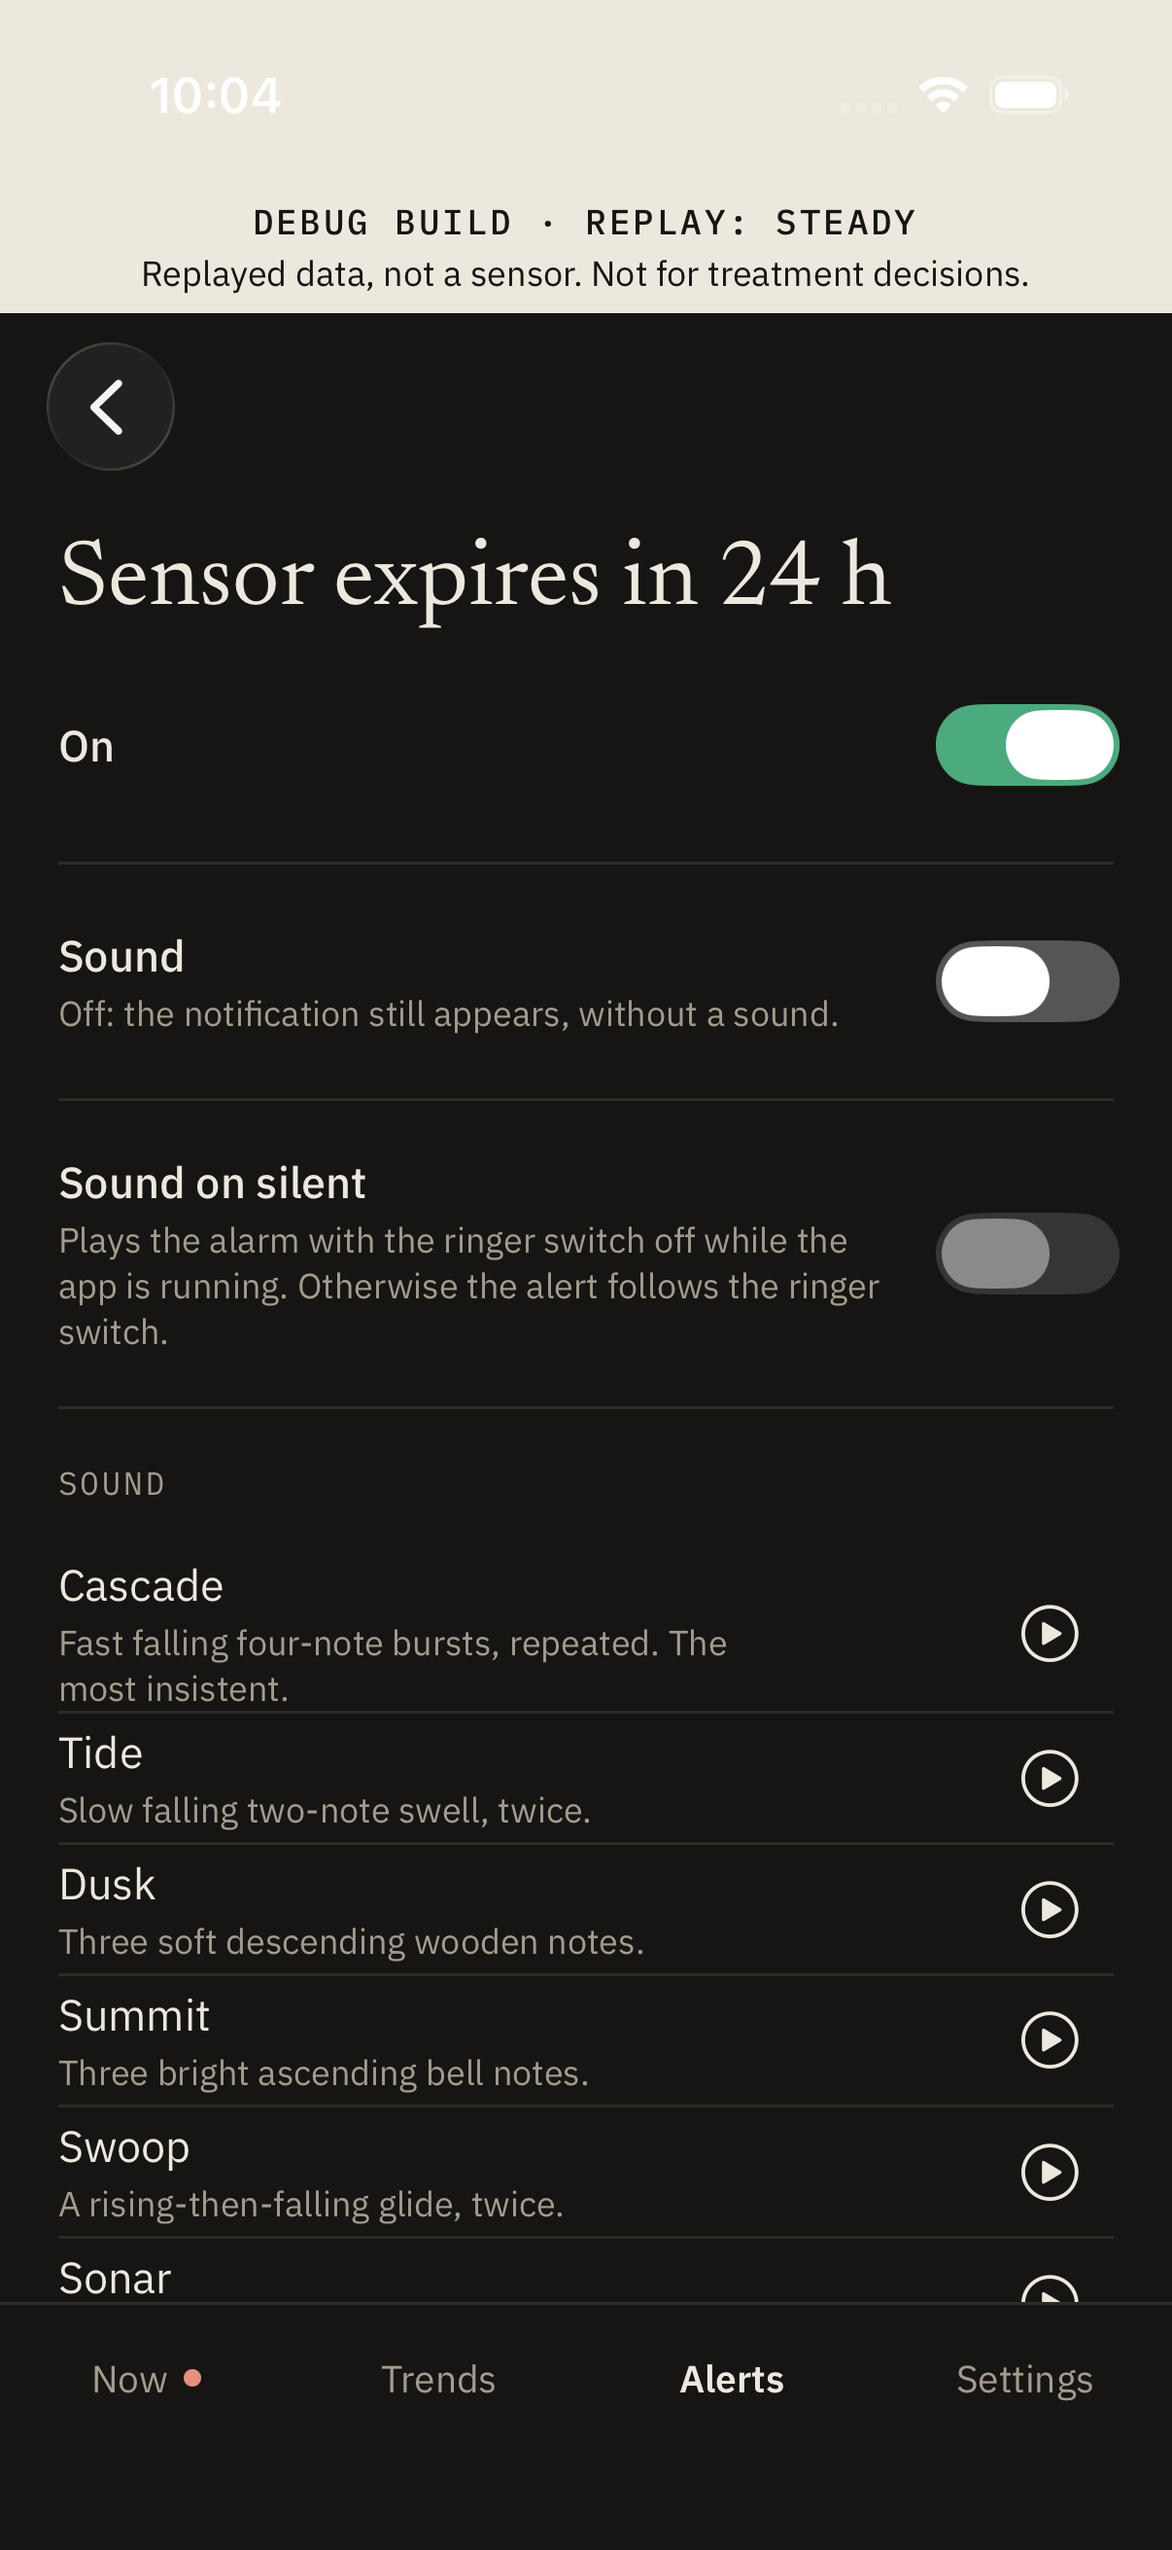
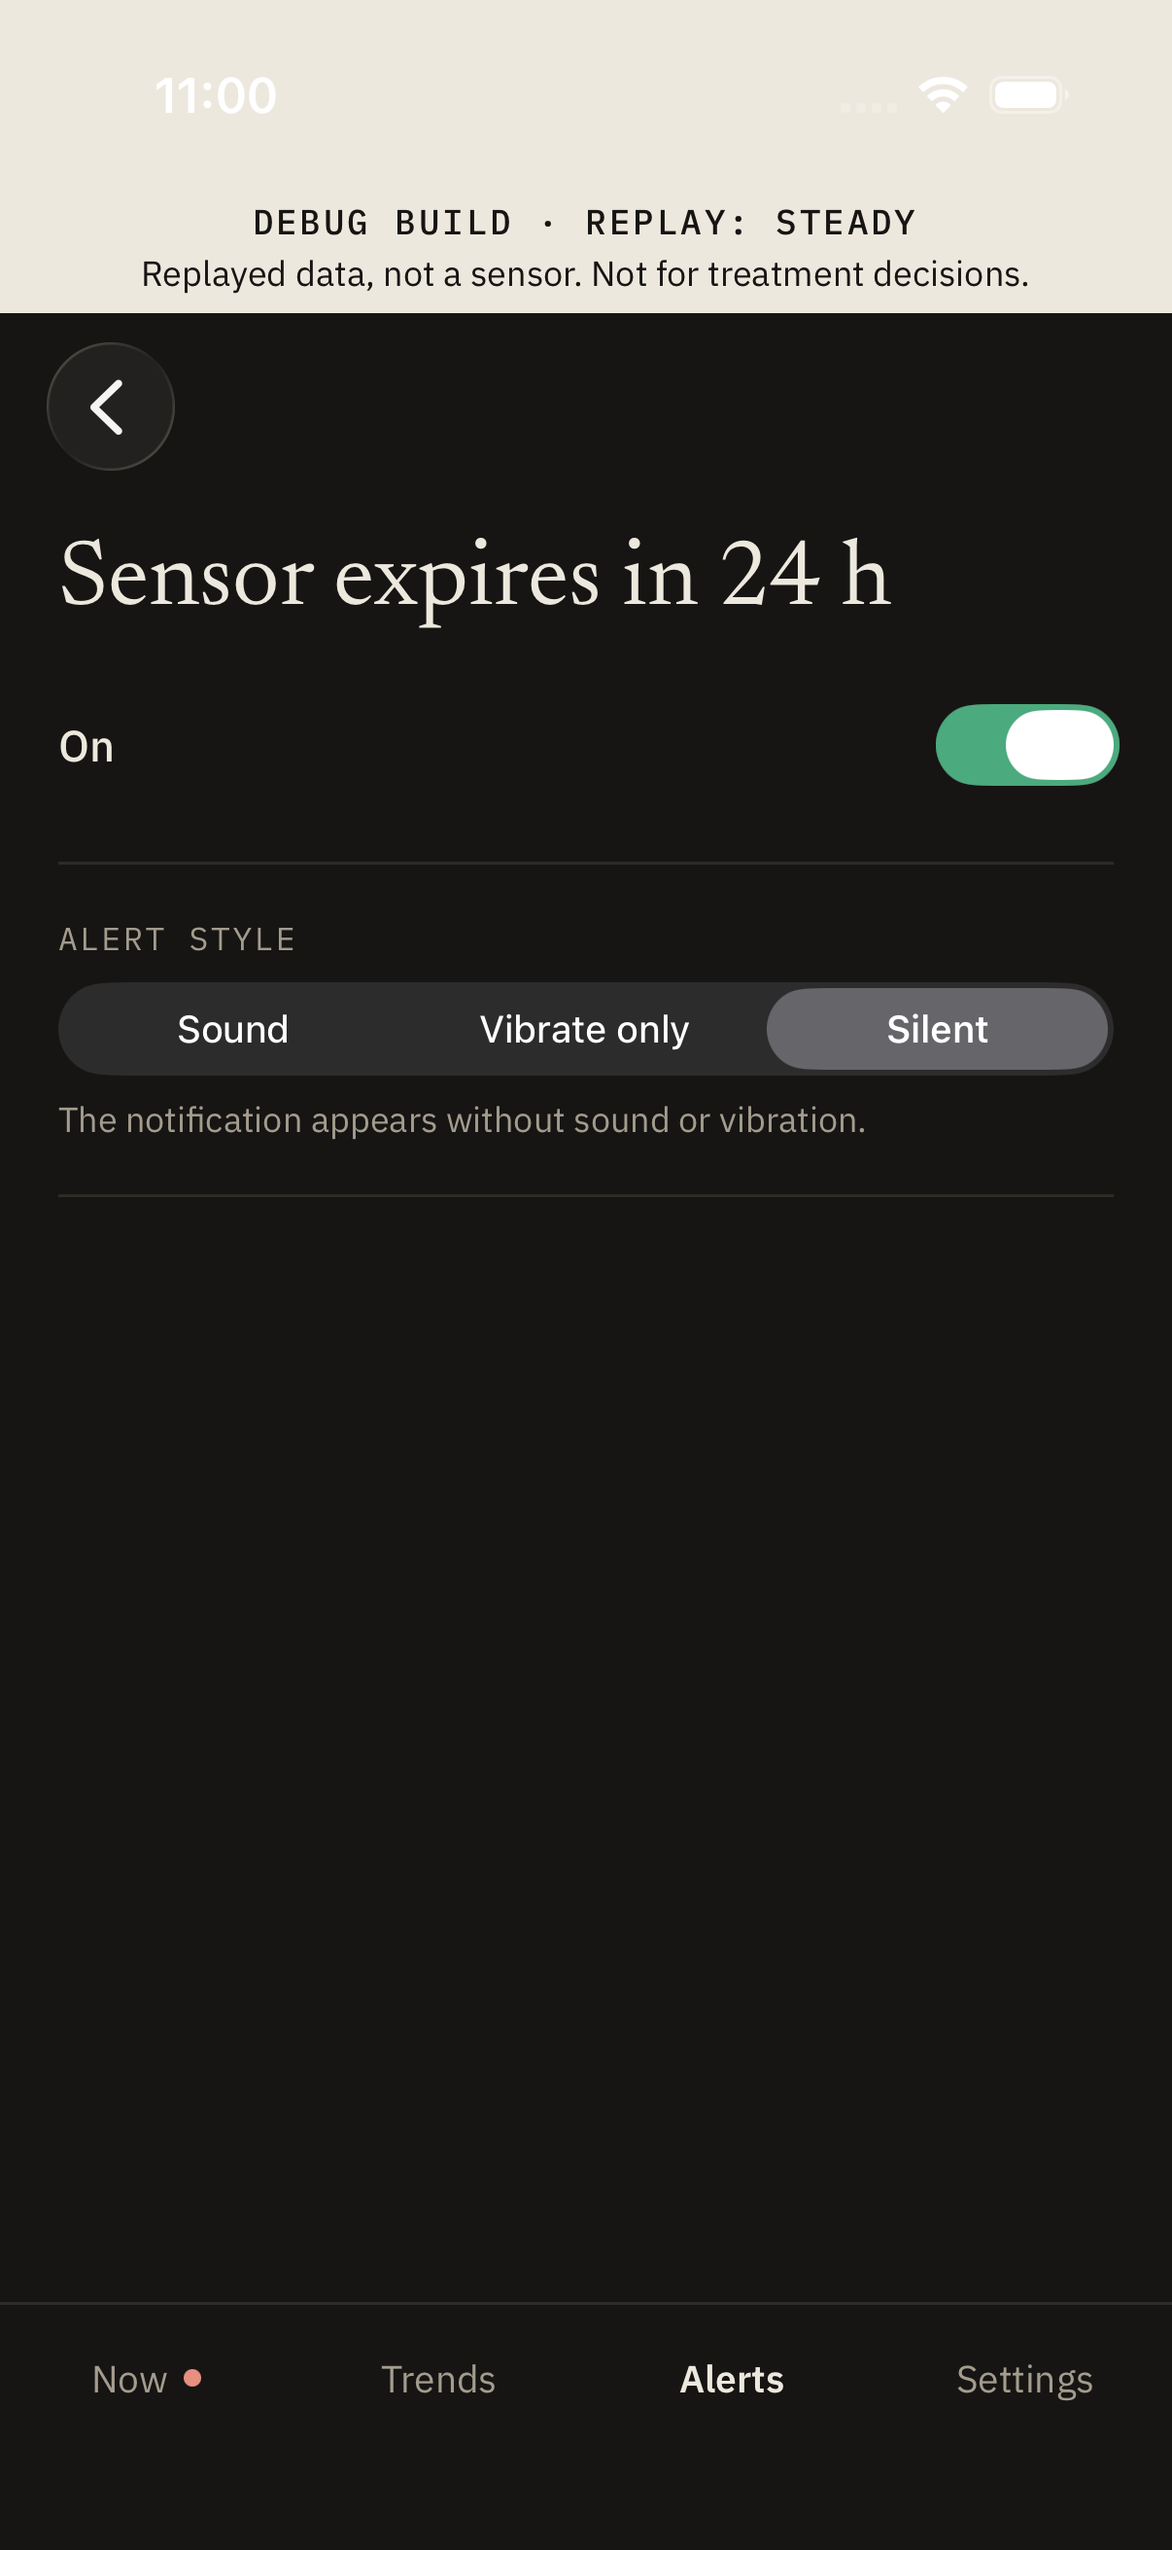
D53 wired: alert style on AlertEngine's AlertStyle (style, setStyle, allowedStyles); urgent low shows no choice; NoAlertHaptics under -silenceAlertAudio; Alerts screenshots regenerated

diff --git a/App/Sources/ViewState/AlertsViewState.swift b/App/Sources/ViewState/AlertsViewState.swift
@@ -103,9 +103,10 @@ struct AlertRow: Equatable, Identifiable, Sendable {
     var repeatMinutes: Int?
     /// D53: how the alert gets attention — its sound, a vibration without sound, or (one-off
     /// announcements) a silent notification. Urgent low is always `.sound` (S7).
-    var style: AlertStyleChoice = .sound
-    /// The styles the person may choose; empty for urgent low, which has no style control (S7).
-    var allowedStyles: [AlertStyleChoice] = []
+    var style: AlertStyle = .sound
+    /// AlertEngine's `allowedStyles(for:)`: `[.sound]` for urgent low (S7: no style control),
+    /// sound / vibrate only for condition alerts, all three for one-off announcements.
+    var allowedStyles: [AlertStyle] = [.sound]
 
     var id: AlertKind { kind }
 
@@ -114,17 +115,8 @@ struct AlertRow: Equatable, Identifiable, Sendable {
     var effectiveSoundOnSilent: Bool { kind.soundOnSilentIsFixed ? true : soundOnSilent }
     /// The sound picker and "Sound on silent" apply only when the alert plays its sound.
     var showsSoundSettings: Bool { style == .sound }
-}
-
-/// D53 alert style, the screen's side. Mirrors AlertEngine's `AlertStyle` (WS4: `.sound`,
-/// `.vibrateOnly`, `.silent` for one-off events); `AlertStyleAdapter` is the only place that talks to
-/// the engine about it.
-enum AlertStyleChoice: String, CaseIterable, Identifiable, Sendable {
-    case sound
-    case vibrateOnly
-    case silent
-
-    var id: String { rawValue }
+    /// A style control only where there is a choice (never for urgent low, S7).
+    var hasStyleChoice: Bool { allowedStyles.count > 1 }
 }
 
 struct AlertSound: Equatable, Identifiable, Sendable {
@@ -221,7 +213,7 @@ enum AlertsText {
     static let expiryRemindersNote = "Reminders before the sensor's session ends, when the grace period starts, and when it has expired. They arrive even while the app is in the background."
 
     /// D53: the alert style choice.
-    static func styleTitle(_ style: AlertStyleChoice) -> String {
+    static func styleTitle(_ style: AlertStyle) -> String {
         switch style {
         case .sound: return "Sound"
         case .vibrateOnly: return "Vibrate only"
@@ -230,7 +222,7 @@ enum AlertsText {
     }
 
     /// One line under the choice; nil for Sound (the sound settings follow).
-    static func styleNote(_ style: AlertStyleChoice) -> String? {
+    static func styleNote(_ style: AlertStyle) -> String? {
         switch style {
         case .sound: return nil
         case .vibrateOnly: return "Vibrates without sound. Easy to miss while asleep."

diff --git a/App/Sources/Model/AlertsMapping.swift b/App/Sources/Model/AlertsMapping.swift
@@ -25,34 +25,27 @@ enum AlertEdit: Equatable, Sendable {
     /// Urgent low: repeat interval, minutes.
     case repeatInterval(AlertKind, Int)
     /// D53: Sound / Vibrate only / Silent (one-off events). Refused for urgent low (S7).
-    case style(AlertKind, AlertStyleChoice)
+    case style(AlertKind, AlertStyle)
     /// D53 convenience: every alert that sounds, except urgent low, to vibrate only. Silent
     /// announcements stay silent; urgent low is never touched (S7).
     case vibrateAllExceptUrgentLow
     case quietHours(QuietHours)
 }
 
-/// D53: the alert style through AlertEngine — the only code that reads or writes it. Until WS4's
-/// `AlertStyle` (`style(_:)`, `setStyle(_:for:)`, `allowedStyles(for:)`) lands it reads the D43
-/// `playsSound` (Silent) and cannot store Vibrate only; wiring replaces these three functions.
+/// D53: the alert style through AlertEngine (`AlertSettings.style(_:)`, `setStyle(_:for:)`,
+/// `allowedStyles(for:)`) — the only code that reads or writes it. The engine refuses anything but
+/// `.sound` for urgent low (S7) and `.silent` for a condition alert.
 enum AlertStyleAdapter {
-    static func style(_ kind: AlertKind, in settings: AlertSettings) -> AlertStyleChoice {
-        kind.isEventAlert && !settings.playsSound(kind) ? .silent : .sound
+    static func style(_ kind: AlertKind, in settings: AlertSettings) -> AlertStyle {
+        settings.style(kind)
     }
 
-    /// Empty for urgent low (S7: always sound, no control).
-    static func allowedStyles(_ kind: AlertKind) -> [AlertStyleChoice] {
-        guard kind != .urgentLow else { return [] }
-        return kind.isEventAlert ? [.sound, .vibrateOnly, .silent] : [.sound, .vibrateOnly]
+    static func allowedStyles(_ kind: AlertKind) -> [AlertStyle] {
+        AlertSettings.allowedStyles(for: kind)
     }
 
-    static func setStyle(_ style: AlertStyleChoice, for kind: AlertKind, in settings: inout AlertSettings) {
-        guard allowedStyles(kind).contains(style) else { return }
-        switch style {
-        case .sound: settings.setPlaysSound(true, for: kind)
-        case .silent: settings.setPlaysSound(false, for: kind)
-        case .vibrateOnly: break // stored once WS4's setStyle lands
-        }
+    static func setStyle(_ style: AlertStyle, for kind: AlertKind, in settings: inout AlertSettings) {
+        settings.setStyle(style, for: kind)
     }
 }
 

diff --git a/App/Sources/Composition/AlertPorts.swift b/App/Sources/Composition/AlertPorts.swift
@@ -17,6 +17,9 @@ struct AlertPorts {
     /// Calendar and locale for quiet hours and notification text (the phone's by default).
     let configuration: AlertEngineConfiguration
     let diagnostics: any DiagnosticLog
+    /// The in-app vibration for vibrate-only alerts (D53); nil uses the system vibration
+    /// (`SystemAlertHaptics`). DEBUG `-silenceAlertAudio`: `NoAlertHaptics`.
+    var haptics: (any AlertHaptics)? = nil
 
     /// The production service: restores the persisted engine snapshot and persists every new one
     /// (acknowledgements and snoozes survive a relaunch). Call `start()` on it.
@@ -24,7 +27,7 @@ struct AlertPorts {
                                onSnapshot: @escaping @MainActor (AlertEngineSnapshot) -> Void) -> AlertService {
         AlertService(
             settings: settings, restoring: snapshot, configuration: configuration, clock: clock,
-            notificationCenter: notificationCenter, audio: audio, systemAlarms: alarms, diagnostics: diagnostics,
+            notificationCenter: notificationCenter, audio: audio, systemAlarms: alarms, haptics: haptics, diagnostics: diagnostics,
             onSnapshot: onSnapshot
         )
     }
@@ -37,7 +40,7 @@ struct AlertPorts {
         replayConfiguration.acceptsReplayReadings = true
         return AlertService(
             settings: settings, restoring: nil, configuration: replayConfiguration, clock: clock,
-            notificationCenter: notificationCenter, audio: audio, systemAlarms: alarms, diagnostics: diagnostics
+            notificationCenter: notificationCenter, audio: audio, systemAlarms: alarms, haptics: haptics, diagnostics: diagnostics
         )
     }
     #endif

diff --git a/App/Sources/Screens/Alerts/AlertsScreen.swift b/App/Sources/Screens/Alerts/AlertsScreen.swift
@@ -90,7 +90,7 @@ struct AlertsContent: View {
     /// be changed back on its page. Offered while any alert would change.
     @ViewBuilder
     private var vibrateAll: some View {
-        if state.rows.contains(where: { $0.allowedStyles.contains(.vibrateOnly) && $0.style == .sound }) {
+        if state.rows.contains(where: { $0.kind != .urgentLow && $0.allowedStyles.contains(.vibrateOnly) && $0.style == .sound }) {
             Button(AlertsText.vibrateAllButton) { confirmingVibrateAll = true }
                 .buttonStyle(LinkButtonStyle())
                 .frame(minHeight: Layout.minTarget)
@@ -286,7 +286,7 @@ struct AlertDetailView: View {
     /// D53: Sound / Vibrate only (/ Silent for one-off events). Urgent low has none: a note (S7).
     @ViewBuilder
     private var styleSection: some View {
-        if row.allowedStyles.isEmpty {
+        if !row.hasStyleChoice {
             Text(verbatim: AlertsText.urgentLowStyleNote)
                 .font(Typography.body(size: 13))
                 .fixedSize(horizontal: false, vertical: true)
@@ -295,7 +295,7 @@ struct AlertDetailView: View {
             VStack(alignment: .leading, spacing: 8) {
                 SectionLabel("ALERT STYLE")
                 Picker(selection: Binding(get: { row.style }, set: { actions.edit(.style(row.kind, $0)) })) {
-                    ForEach(row.allowedStyles) { style in
+                    ForEach(row.allowedStyles, id: \.self) { style in
                         Text(verbatim: AlertsText.styleTitle(style)).tag(style)
                     }
                 } label: {

diff --git a/AppTests/AlertsViewTests.swift b/AppTests/AlertsViewTests.swift
@@ -148,7 +148,8 @@ final class AlertsViewTests: XCTestCase {
             XCTAssertEqual(state.row(kind)?.allowedStyles, [.sound, .vibrateOnly, .silent], "\(kind): one-off events can be silent")
         }
         XCTAssertEqual(state.row(.sensorExpired)?.allowedStyles, [.sound, .vibrateOnly], "expired is never silent")
-        XCTAssertEqual(state.row(.urgentLow)?.allowedStyles, [], "S7: urgent low has no style control")
+        XCTAssertEqual(state.row(.urgentLow)?.allowedStyles, [.sound], "S7: urgent low has no style choice")
+        XCTAssertEqual(state.row(.urgentLow)?.hasStyleChoice, false)
         XCTAssertEqual(state.row(.urgentLow)?.style, .sound)
         for kind in AlertKind.allCases where !kind.isEventAlert && kind != .urgentLow {
             XCTAssertEqual(state.row(kind)?.allowedStyles, [.sound, .vibrateOnly], "\(kind)")
@@ -163,7 +164,7 @@ final class AlertsViewTests: XCTestCase {
         XCTAssertFalse(s.playsSound(.sensorExpiringIn12Hours))
         XCTAssertFalse(s.isEnabled(.sensorExpiringIn12Hours))
         // S7: a style edit for urgent low changes nothing; Silent is refused for condition alerts.
-        for style in AlertStyleChoice.allCases {
+        for style in AlertStyle.allCases {
             XCTAssertEqual(AlertsMapping.apply(.style(.urgentLow, style), to: .defaults), .defaults, "\(style)")
         }
         XCTAssertEqual(AlertsMapping.apply(.style(.sensorExpired, .silent), to: .defaults), .defaults)

diff --git a/App/Sources/Composition/AppEnvironment.swift b/App/Sources/Composition/AppEnvironment.swift
@@ -119,7 +119,7 @@ final class AppEnvironment {
 
     /// The alert service's delivery ports: UNUserNotificationCenter, the `.playback` audio player and
     /// AlarmKit with the app's Stop intent (docs/alerts.md §9). DEBUG: `-silenceAlertAudio` swaps in
-    /// silent versions (SilentAlertOutputs.swift) — same delivery, nothing audible.
+    /// silent versions (SilentAlertOutputs.swift) and no vibration — same delivery, nothing audible.
     static func makeAlertPorts(arguments: [String], diagnostics: any DiagnosticLog) -> AlertPorts {
         let notifications: any AlertNotificationCenter = UserNotificationCenterAdapter()
         let audio: any AlertAudioPlaying = PlaybackAlertAudioPlayer()
@@ -132,7 +132,8 @@ final class AppEnvironment {
             diagnostics.record(DiagnosticEvent(date: Date(), category: .alert, message: "alert audio silenced (\(SilentAlertAudio.launchArgument), DEBUG)"))
             return AlertPorts(
                 notificationCenter: SilentNotificationCenter(), audio: SilentAlertAudioPlayer(volumeSource: audio),
-                alarms: SilentSystemAlarms(real: alarms), configuration: AlertEngineConfiguration(), diagnostics: diagnostics
+                alarms: SilentSystemAlarms(real: alarms), configuration: AlertEngineConfiguration(), diagnostics: diagnostics,
+                haptics: NoAlertHaptics() // D53: no vibration either
             )
         }
         #endif

diff --git a/AppTests/AlertStyleTests.swift b/AppTests/AlertStyleTests.swift
@@ -22,10 +22,11 @@ final class AlertStyleTests: XCTestCase {
     /// S7: urgent low has no style control and no style edit changes it.
     func test_urgentLowHasNoStyleControl() {
         let row = AlertsMapping.row(.urgentLow, .defaults)
-        XCTAssertEqual(row.allowedStyles, [])
+        XCTAssertEqual(row.allowedStyles, [.sound])
+        XCTAssertFalse(row.hasStyleChoice)
         XCTAssertEqual(row.style, .sound)
         XCTAssertTrue(row.showsSoundSettings)
-        for style in AlertStyleChoice.allCases {
+        for style in AlertStyle.allCases {
             XCTAssertEqual(AlertsMapping.apply(.style(.urgentLow, style), to: .defaults), .defaults, "\(style)")
         }
         XCTAssertEqual(AlertsText.urgentLowStyleNote, "Urgent low always sounds (it can't be set to vibrate).")

diff --git a/AppTests/SilentAlertAudioTests.swift b/AppTests/SilentAlertAudioTests.swift
@@ -36,7 +36,7 @@ final class SilentAlertAudioTests: XCTestCase {
     func test_silentNotificationMapsTheActiveLevel() {
         let notice = AlertNotice(
             kind: .sensorExpiringIn24Hours, title: "Sensor expires in 24 h", body: "At 8:15 PM tomorrow", sound: .doorbell,
-            soundsOnSilent: false, isSilenced: false, snoozeMinutes: nil, fireDate: nil, playsSound: false
+            soundsOnSilent: false, isSilenced: false, snoozeMinutes: nil, fireDate: nil, style: .silent
         )
         let decision = DeliveryPolicy.decide(for: notice, criticalAlertsEnabled: false, systemAlarmsAvailable: false, timing: .now)
         XCTAssertEqual(decision.interruption, .active)

diff --git a/docs/app-wiring.md b/docs/app-wiring.md
@@ -164,14 +164,24 @@ Tests: `TrendsMappingTests`, `AppModelWiringTests.test_trendsFromTheStore`.
 Rows are AlertEngine's own `AlertKind`s (the app has no alert enum; D42 added "History isn't being
 saved", `storageFailing`, sound-on-silent off by default). D43: the five sensor expiry reminders
 (`AlertKind.sensorExpiryReminders`: 24 h, 12 h, 2 h, grace start, expired) are their own section,
-"Sensor expiry reminders", in the order they come due. Each row has one switch (on/off) and says
-"no sound" or the sound's name; the one-off announcements' Sound switch (`AlertSettings.playsSound` /
-`setPlaysSound`, `AlertEdit.playsSound`; 24 h off by default) is on the reminder's page, above "Sound
-on silent", which is disabled while Sound is off (review m8: two unlabelled switches on a row invited
-turning a reminder off instead of muting it). "Sensor expired" always sounds, and urgent low never
-gets a Sound switch (S7: its row has no `playsSound`, and the engine refuses the edit). Screenshots: `alerts-expiry-reminders-*.png`,
-`alerts-expiry-24h-*.png` (taken by `test_alertsShowTheSensorExpiryReminders` with
-`SENSOR_WRITE_SCREENSHOTS=1`). Rows are built from `alertSettings` by
+"Sensor expiry reminders", in the order they come due. Each row has one switch (on/off; review m8:
+two unlabelled switches on a row invited turning a reminder off instead of muting it).
+
+**Alert style (D53).** Each alert's page has an "Alert style" choice from AlertEngine's
+`allowedStyles(for:)`: Sound / Vibrate only for condition alerts, plus Silent for the one-off
+announcements (it replaces D43's Sound switch; the 24 h reminder is Silent by default); "Sensor
+expired" is a condition alert, so never Silent. Urgent low (`[.sound]`, S7) shows no choice, only
+"Urgent low always sounds (it can't be set to vibrate)." The sound picker and "Sound on silent" show
+only for Sound; Vibrate only says "Vibrates without sound. Easy to miss while asleep." Edits are
+`AlertEdit.style` → `setStyle(_:for:)` (the engine refuses what isn't allowed), all through
+`AlertStyleAdapter`. The list subtitle reads "vibrate only", "no sound", or the sound's name and
+"sounds on silent". "Set all to vibrate except urgent low" (top of the screen, confirmed;
+`AlertEdit.vibrateAllExceptUrgentLow`) turns every alert on Sound but urgent low to Vibrate only;
+Silent announcements stay silent, each alert can be set back on its page, defaults are unchanged.
+DEBUG `-silenceAlertAudio` also passes `NoAlertHaptics` (no vibration). Screenshots:
+`alerts-expiry-reminders-*.png`, `alerts-expiry-24h-*.png` (`test_alertsShowTheSensorExpiryReminders`),
+`alerts-low-vibrate-only-*.png`, `alerts-list-vibrate-only-*.png` (`test_lowCanVibrateOnly`), with
+`SENSOR_WRITE_SCREENSHOTS=1`. Rows are built from `alertSettings` by
 `AlertsMapping.make`; every range comes from `AlertLimits` (the Phase 1 screen's own Low 60–100 /
 High 120–400 / rate 2–5 clamps are gone). An edit is `AlertsMapping.apply(edit, to:)` — the
 settings types' clamping setters — then `updateAlertSettings`. Edits made before the facade
